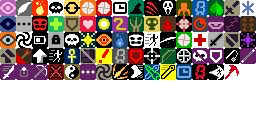
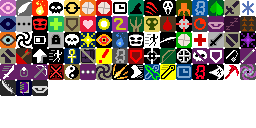
素材追加+代码实装

Changed region(s): [[0.0, 0.625, 0.1875, 0.75], [0.9375, 0.5, 1.0, 0.625]]

diff --git a/core/src/main/java/com/shatteredpixel/shatteredpixeldungeon/sprites/ItemSpriteSheet.java b/core/src/main/java/com/shatteredpixel/shatteredpixeldungeon/sprites/ItemSpriteSheet.java
@@ -331,8 +331,6 @@ public class ItemSpriteSheet {
 		assignItemRect(PNEGLOVE_FIVE,          16, 11);
 		assignItemRect(PNEGLOVE_ACTIVE,          16, 11);
 
-		assignItemRect(LONG_STARK,          14, 14);
-
 		//Radish Image
 		
 		assignItemRect(BEECOMB,          14, 16);
@@ -534,10 +532,10 @@ public class ItemSpriteSheet {
 		assignItemRect(ARMOR_HUNTRESS,  13, 15);
 		assignItemRect(ARMOR_DUELIST,   12, 13);
 		assignItemRect(ARMOR_CRAB,   16, 12);
-		assignItemRect(ARMOR_AFTERGLOW,   16, 16);
+		assignItemRect(ARMOR_AFTERGLOW,   13, 13);
 		assignItemRect(ARMOR_RAT,   12, 14);
 		assignItemRect(ARMOR_GREYFEATHER,   14, 13);
-		assignItemRect(ARMOR_AFTERIMAGE,   16, 15);
+		assignItemRect(ARMOR_AFTERIMAGE,   11, 13);
 		assignItemRect(ARMOR_PRISON,   16, 14);
 		assignItemRect(ARMOR_ENERGY1,   16, 14);
 		assignItemRect(ARMOR_ENERGY2,   16, 14);
